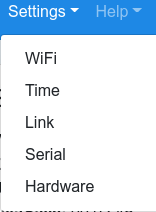
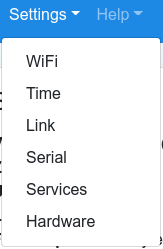
added 'Services' menu

diff --git a/web_rus.md b/web_rus.md
@@ -80,6 +80,7 @@ Web интерфейс необходим для первоначальной к
 1. `Time` - [Настройка часов шлюза.](#Time)
 1. `Link` - [Настройка подключения к внешним сервисам.](#Link)
 1. `Serial` - 
+1. `Services` - 
 1. `Hardware` - [Настройка аппаратной части шлюза.](#Hardware)
 
 ### Wifi
@@ -106,6 +107,8 @@ Web интерфейс необходим для первоначальной к
 ![Main menu - Settings - Native API Setup](/img/slssetupnapive.png)
 
 ### Serial
+
+### Services
 
 ### Hardware
 Настройки аппаратной части шлюза.
